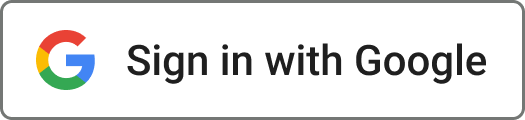
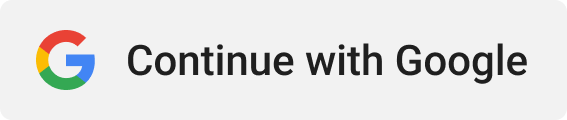
mod: 로그인 버튼 사이즈 조정

Changed region(s): [[0.2133, 0.35, 0.9448, 0.7], [0.0, 0.0, 1.0, 1.0], [0.061, 0.25, 0.1829, 0.75]]

diff --git a/src/pages/LoginPage/LoginPage.tsx b/src/pages/LoginPage/LoginPage.tsx
@@ -262,7 +262,7 @@ function LoginPage({ navigation, route }: ScreenProps<'LoginPage'>) {
                                             ? '#06C755'
                                             : id === 'kakao'
                                             ? '#FEE500'
-                                            : '#FFFFFF',
+                                            : '#eeeeee',
                                     borderWidth: id === 'google' ? 1 : 0,
                                     borderColor: '#E0E0E0',
                                     marginBottom: 10,
@@ -271,7 +271,7 @@ function LoginPage({ navigation, route }: ScreenProps<'LoginPage'>) {
                                 <Image
                                     source={src}
                                     style={{
-                                        height: 28,
+                                        height: 50,
                                         resizeMode: 'contain',
                                     }}
                                 />
